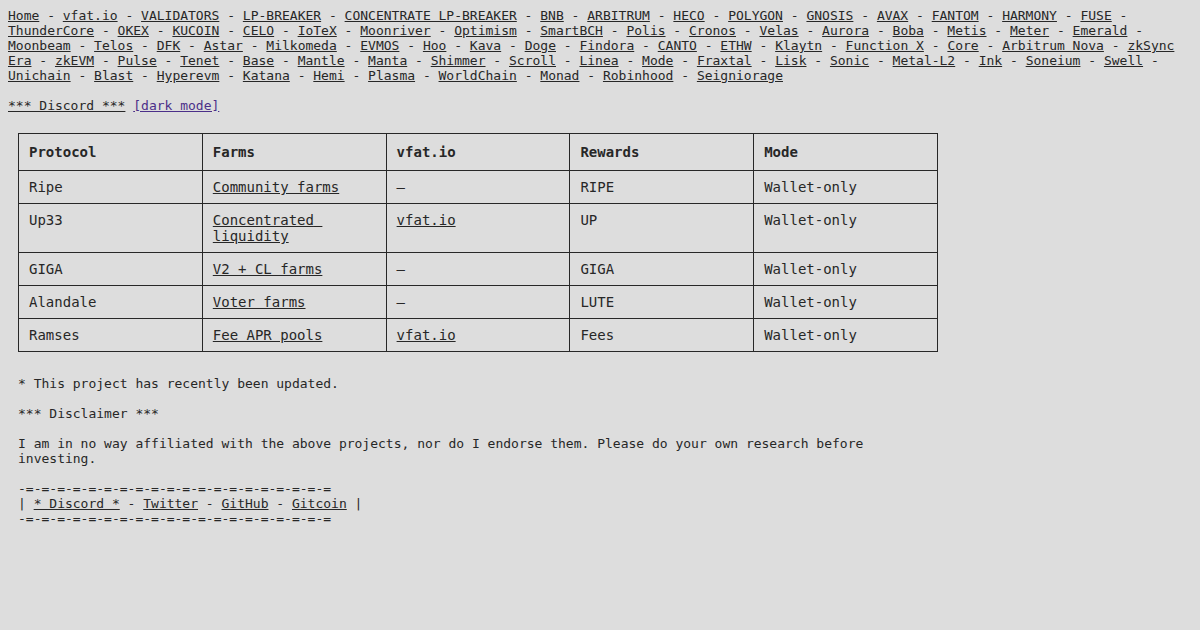
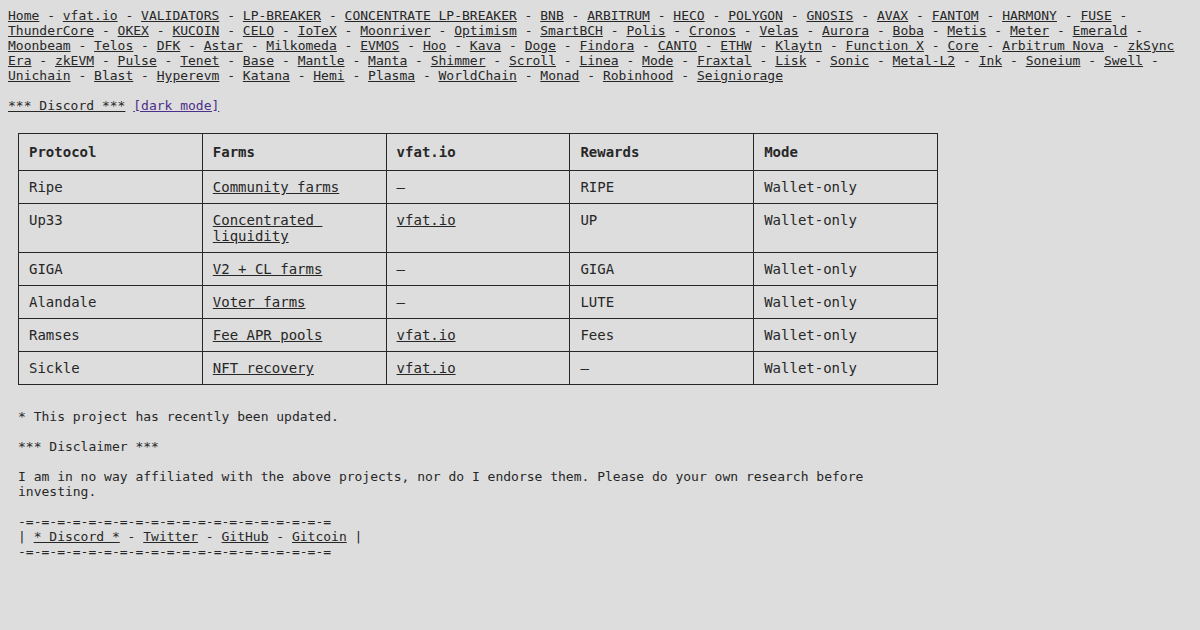
Restore Robinhood Sickle recovery page

diff --git a/src/js/robinhood_sickle_wallet.js b/src/js/robinhood_sickle_wallet.js
@@ -1,0 +1,363 @@
+const { ethers } = require('ethers')
+
+;(function () {
+  'use strict'
+
+  const chain = {
+    id: '0x1237',
+    name: 'Robinhood Chain',
+    rpc: 'https://rpc.mainnet.chain.robinhood.com',
+    explorer: 'https://robinhoodchain.blockscout.com',
+    nativeCurrency: { name: 'Ether', symbol: 'ETH', decimals: 18 }
+  }
+  const addresses = {
+    factory: '0x3575Aa02Ae85D8Cd2AaE6DCaA5D8750cFc9622e6',
+    sweep: '0xBfc6216915536bf83e94fB8f24Fc197adB2e3401',
+    multicall: '0xcA11bde05977b3631167028862bE2a173976CA11'
+  }
+  const managers = [
+    { name: 'Uniswap', address: '0x73991a25C818Bf1f1128dEAaB1492D45638DE0D3' },
+    { name: 'Up33', address: '0x07F44c47743A2f36414A82b9F558ECFCf0EEdCEf' },
+    { name: 'Ramses', address: '0x2eBd7B85a4E08D5B508b04BA147976C94afE6590' }
+  ]
+  const reownProjectId = process.env.REOWN_PROJECT_ID || '3e6154a7158ff5f7509f24405fc3b551'
+  const zeroAddress = ethers.constants.AddressZero
+  const factoryInterface = new ethers.utils.Interface(['function sickles(address) view returns(address)'])
+  const managerInterface = new ethers.utils.Interface([
+    'function balanceOf(address) view returns(uint256)',
+    'function tokenOfOwnerByIndex(address,uint256) view returns(uint256)'
+  ])
+  const sweepInterface = new ethers.utils.Interface(['function sweepErc721(address[] tokens,uint256[] tokenIds)'])
+  const multicallAbi = ['function aggregate3((address target,bool allowFailure,bytes callData)[] calls) view returns((bool success,bytes returnData)[] returnData)']
+  const state = {
+    rpc: null,
+    wallet: null,
+    walletKind: '',
+    account: '',
+    walletChain: '',
+    boundWallet: null,
+    accountListener: null,
+    chainListener: null,
+    reownUnsubscribe: null,
+    sickle: '',
+    positions: [],
+    managerCoverage: 0,
+    positionCoverage: 0,
+    expectedPositions: 0,
+    loading: false,
+    sending: false,
+    status: '',
+    statusKind: ''
+  }
+
+  function byId (id) { return document.getElementById(id) }
+  function errText (error) {
+    if (!error) return 'Unknown error.'
+    if (error.code === 4001) return 'Request rejected.'
+    return error.shortMessage || error.reason || (error.data && error.data.message) || error.message || String(error)
+  }
+  function shortAddress (address) { return address ? address.slice(0, 6) + '…' + address.slice(-4) : '' }
+  function correctChain () { return String(state.walletChain || '').toLowerCase() === chain.id }
+  function isZero (address) { return !address || String(address).toLowerCase() === zeroAddress.toLowerCase() }
+  function setStatus (message, kind) { state.status = message || ''; state.statusKind = kind || ''; renderStatus() }
+  function setLoading (message) {
+    state.loading = Boolean(message)
+    const box = byId('sickle-loading')
+    box.hidden = !state.loading
+    box.setAttribute('aria-label', message || '')
+    renderToolbar()
+  }
+
+  function appendLine (parent, text, bold) {
+    if (bold) {
+      const element = document.createElement('b')
+      element.textContent = text
+      parent.appendChild(element)
+    } else {
+      parent.appendChild(document.createTextNode(text))
+    }
+    parent.appendChild(document.createTextNode('\n'))
+  }
+  function actionButton (label, positions) {
+    const button = document.createElement('button')
+    button.type = 'button'
+    button.className = 'sickle-action'
+    button.textContent = label
+    button.disabled = state.sending || !correctChain()
+    button.addEventListener('click', function () { sweepPositions(positions).catch(function (error) { setStatus(errText(error), 'error'); setLoading() }) })
+    return button
+  }
+
+  function renderToolbar () {
+    const connected = Boolean(state.account)
+    byId('sickle-wallet-status').textContent = connected
+      ? shortAddress(state.account) + (correctChain() ? ' · Robinhood' : ' · wrong network')
+      : 'Not connected'
+    byId('sickle-connect').textContent = connected ? '[ change wallet ]' : '[ connect ]'
+    byId('sickle-other-wallet').hidden = false
+    byId('sickle-switch').hidden = !connected || correctChain()
+    byId('sickle-refresh').hidden = !connected
+    byId('sickle-connect').disabled = state.loading || state.sending
+    byId('sickle-other-wallet').disabled = state.loading || state.sending
+    byId('sickle-switch').disabled = state.loading || state.sending
+    byId('sickle-refresh').disabled = state.loading || state.sending
+  }
+  function renderStatus () {
+    const element = byId('sickle-status')
+    element.textContent = state.status ? state.status + '\n\n' : ''
+    element.hidden = !state.status
+    element.dataset.kind = state.statusKind || ''
+  }
+  function renderApp () {
+    const app = byId('sickle-app')
+    app.replaceChildren()
+    if (!state.account) return
+    appendLine(app, 'Initialized ' + state.account)
+    appendLine(app, 'Reading smart contracts...')
+    appendLine(app, '')
+    if (!correctChain()) {
+      appendLine(app, 'Switch to Robinhood Chain.', true)
+      return
+    }
+    if (state.loading && !state.sickle) return
+    if (!state.sickle && state.statusKind === 'error') return
+    if (!state.sickle) {
+      appendLine(app, 'You dont have a sickle account', true)
+      return
+    }
+
+    appendLine(app, 'Your Sickle Address: ' + state.sickle, true)
+    appendLine(app, '')
+    managers.forEach(function (manager) {
+      const positions = state.positions.filter(function (position) { return position.manager.address.toLowerCase() === manager.address.toLowerCase() })
+      if (!positions.length) return
+      const name = manager.name.toUpperCase()
+      appendLine(app, name + ' nfts', true)
+      positions.forEach(function (position) {
+        app.appendChild(actionButton('Withdraw ' + name + ' erc721 token: ' + position.id, [position]))
+        app.appendChild(document.createTextNode('\n'))
+      })
+      const ids = positions.map(function (position) { return position.id }).join(' - ')
+      app.appendChild(actionButton('Withdraw all ' + name + ' erc721 tokens: ' + ids, positions))
+      app.appendChild(document.createTextNode('\n\n'))
+    })
+  }
+  function render () { renderToolbar(); renderStatus(); renderApp() }
+
+  async function aggregate (calls) {
+    if (!calls.length) return []
+    const multicall = new ethers.Contract(addresses.multicall, multicallAbi, state.rpc)
+    return multicall.aggregate3(calls.map(function (call) {
+      return { target: call.target, allowFailure: true, callData: call.data }
+    }))
+  }
+
+  async function refreshWallet () {
+    if (!state.account || !correctChain()) { state.sickle = ''; state.positions = []; render(); return }
+    setLoading('Reading Sickle account…')
+    setStatus('')
+    state.sickle = ''
+    state.positions = []
+    state.managerCoverage = 0
+    state.positionCoverage = 0
+    state.expectedPositions = 0
+    renderApp()
+    try {
+      const factoryData = factoryInterface.encodeFunctionData('sickles', [state.account])
+      const response = await state.rpc.call({ to: addresses.factory, data: factoryData })
+      state.sickle = factoryInterface.decodeFunctionResult('sickles', response)[0]
+      if (isZero(state.sickle)) { state.sickle = ''; setStatus(''); return }
+
+      setLoading('Reading supported NFT managers…')
+      const balanceResults = await aggregate(managers.map(function (manager) {
+        return { target: manager.address, data: managerInterface.encodeFunctionData('balanceOf', [state.sickle]) }
+      }))
+      const balances = balanceResults.map(function (result) {
+        if (!result.success) return null
+        state.managerCoverage += 1
+        return managerInterface.decodeFunctionResult('balanceOf', result.returnData)[0].toNumber()
+      })
+      const positionCalls = []
+      managers.forEach(function (manager, managerIndex) {
+        const balance = balances[managerIndex]
+        if (balance === null) return
+        for (let index = 0; index < balance; index += 1) {
+          positionCalls.push({
+            manager: manager,
+            target: manager.address,
+            data: managerInterface.encodeFunctionData('tokenOfOwnerByIndex', [state.sickle, index])
+          })
+        }
+      })
+      state.expectedPositions = positionCalls.length
+      setLoading(positionCalls.length ? 'Reading ' + positionCalls.length + ' position NFT' + (positionCalls.length === 1 ? '…' : 's…') : 'Finishing…')
+      const positionResults = await aggregate(positionCalls)
+      state.positions = positionResults.map(function (result, index) {
+        if (!result.success) return null
+        state.positionCoverage += 1
+        return { manager: positionCalls[index].manager, id: managerInterface.decodeFunctionResult('tokenOfOwnerByIndex', result.returnData)[0].toString() }
+      }).filter(Boolean)
+      if (state.managerCoverage !== managers.length || state.positionCoverage !== positionCalls.length) setStatus('Some onchain reads failed. Refresh to retry.', 'error')
+      else setStatus('')
+    } catch (error) {
+      state.sickle = ''
+      state.positions = []
+      setStatus('Read failed: ' + errText(error), 'error')
+    } finally {
+      setLoading()
+      render()
+    }
+  }
+
+  function unbindWallet () {
+    if (!state.boundWallet || typeof state.boundWallet.removeListener !== 'function') return
+    if (state.accountListener) state.boundWallet.removeListener('accountsChanged', state.accountListener)
+    if (state.chainListener) state.boundWallet.removeListener('chainChanged', state.chainListener)
+    state.boundWallet = null
+  }
+  function bindWallet (wallet) {
+    unbindWallet()
+    if (!wallet || typeof wallet.on !== 'function') return
+    state.accountListener = function (accounts) {
+      adoptWallet(wallet, accounts, null, state.walletKind).catch(function (error) { setStatus(errText(error), 'error') })
+    }
+    state.chainListener = function (chainId) {
+      state.walletChain = chainId
+      state.sickle = ''
+      state.positions = []
+      render()
+      if (correctChain()) refreshWallet().catch(function (error) { setStatus(errText(error), 'error') })
+    }
+    wallet.on('accountsChanged', state.accountListener)
+    wallet.on('chainChanged', state.chainListener)
+    state.boundWallet = wallet
+  }
+  async function adoptWallet (wallet, accounts, walletChain, kind) {
+    state.wallet = wallet
+    state.walletKind = kind || state.walletKind || 'wallet'
+    state.account = accounts && accounts[0] ? ethers.utils.getAddress(accounts[0]) : ''
+    state.walletChain = walletChain || await wallet.request({ method: 'eth_chainId' })
+    state.sickle = ''
+    state.positions = []
+    bindWallet(wallet)
+    render()
+    if (state.account && correctChain()) await refreshWallet()
+    return Boolean(state.account)
+  }
+  function injectedWallet () {
+    if (!window.ethereum) return null
+    if (window.ethereum.providers && window.ethereum.providers.length) {
+      return window.ethereum.providers.find(function (provider) { return provider.isRabby }) || window.ethereum.providers.find(function (provider) { return provider.isMetaMask }) || window.ethereum.providers[0]
+    }
+    return window.ethereum
+  }
+  async function restoreInjected () {
+    const wallet = injectedWallet()
+    if (!wallet) { render(); return }
+    try {
+      const results = await Promise.all([
+        wallet.request({ method: 'eth_accounts' }),
+        wallet.request({ method: 'eth_chainId' })
+      ])
+      if (results[0] && results[0].length) await adoptWallet(wallet, results[0], results[1], 'injected')
+    } catch (error) {
+      console.warn('Passive wallet restore failed', error)
+    }
+  }
+  async function connectInjected () {
+    const wallet = injectedWallet()
+    if (!wallet) return connectOther()
+    const accounts = await wallet.request({ method: 'eth_requestAccounts' })
+    const walletChain = await wallet.request({ method: 'eth_chainId' })
+    await adoptWallet(wallet, accounts, walletChain, 'injected')
+  }
+  async function connectOther () {
+    const reown = await import('./config.js')
+    const appKit = reown.createAppKitInstance(reownProjectId)
+    if (!appKit) throw new Error('Other wallet is unavailable.')
+    const adopt = async function (address) {
+      const wallet = await appKit.getWalletProvider()
+      if (!wallet || typeof wallet.request !== 'function') throw new Error('WalletConnect did not provide a wallet.')
+      const accounts = await wallet.request({ method: 'eth_accounts' })
+      const walletChain = await wallet.request({ method: 'eth_chainId' })
+      const connected = await adoptWallet(wallet, accounts.length ? accounts : address ? [address] : [], walletChain, 'reown')
+      if (connected && state.reownUnsubscribe) { state.reownUnsubscribe(); state.reownUnsubscribe = null }
+    }
+    const address = appKit.getAddress && appKit.getAddress()
+    if (address) { await adopt(address); return }
+    if (!state.reownUnsubscribe && appKit.subscribeAccount) {
+      state.reownUnsubscribe = appKit.subscribeAccount(function (account) {
+        if (!account || !account.isConnected) return
+        adopt(account.address).catch(function (error) { setStatus(errText(error), 'error') })
+      })
+    }
+    await appKit.open()
+  }
+  async function switchNetwork () {
+    if (!state.wallet) throw new Error('Connect a wallet first.')
+    try {
+      await state.wallet.request({ method: 'wallet_switchEthereumChain', params: [{ chainId: chain.id }] })
+    } catch (error) {
+      if (error.code !== 4902) throw error
+      await state.wallet.request({
+        method: 'wallet_addEthereumChain',
+        params: [{
+          chainId: chain.id,
+          chainName: chain.name,
+          nativeCurrency: chain.nativeCurrency,
+          rpcUrls: [chain.rpc],
+          blockExplorerUrls: [chain.explorer]
+        }]
+      })
+      await state.wallet.request({ method: 'wallet_switchEthereumChain', params: [{ chainId: chain.id }] })
+    }
+    state.walletChain = await state.wallet.request({ method: 'eth_chainId' })
+    render()
+    if (correctChain()) await refreshWallet()
+  }
+
+  async function sweepPositions (positions) {
+    if (!state.wallet || !state.account) throw new Error('Connect a wallet first.')
+    if (!correctChain()) throw new Error('Switch to Robinhood Chain first.')
+    if (!positions.length) return
+    const tokens = positions.map(function (position) { return position.manager.address })
+    const tokenIds = positions.map(function (position) { return position.id })
+    const data = sweepInterface.encodeFunctionData('sweepErc721', [tokens, tokenIds])
+    const transaction = { from: state.account, to: addresses.sweep, data: data }
+    state.sending = true
+    setLoading('Checking withdrawal…')
+    setStatus('')
+    try {
+      await state.wallet.request({ method: 'eth_call', params: [transaction, 'latest'] })
+      setLoading('Waiting for wallet confirmation…')
+      const hash = await state.wallet.request({ method: 'eth_sendTransaction', params: [transaction] })
+      setLoading('Waiting for transaction…')
+      const receipt = await state.rpc.waitForTransaction(hash)
+      if (!receipt || receipt.status !== 1) throw new Error('Transaction failed.')
+      setStatus('Withdrawal confirmed: ' + hash.slice(0, 10) + '…', 'success')
+      await refreshWallet()
+    } finally {
+      state.sending = false
+      setLoading()
+      render()
+    }
+  }
+
+  function bindUi () {
+    byId('sickle-connect').addEventListener('click', function () { connectInjected().catch(function (error) { setStatus(errText(error), 'error') }) })
+    byId('sickle-other-wallet').addEventListener('click', function () { connectOther().catch(function (error) { setStatus(errText(error), 'error') }) })
+    byId('sickle-switch').addEventListener('click', function () { switchNetwork().catch(function (error) { setStatus(errText(error), 'error') }) })
+    byId('sickle-refresh').addEventListener('click', function () { refreshWallet().catch(function (error) { setStatus(errText(error), 'error') }) })
+  }
+  async function start () {
+    state.rpc = new ethers.providers.JsonRpcProvider(chain.rpc, { chainId: 4663, name: 'robinhood' })
+    byId('sickle-date').textContent = new Date().toString() + '\n\n'
+    bindUi()
+    render()
+    await restoreInjected()
+  }
+
+  document.addEventListener('DOMContentLoaded', function () {
+    start().catch(function (error) { setLoading(); setStatus(errText(error), 'error') })
+  })
+})()

diff --git a/webpack.config.js b/webpack.config.js
@@ -35,6 +35,9 @@ module.exports = (env = {}) => {
       // Ramses is a standalone fee-liquidity page. Optional wallet support is
       // loaded only after explicit user intent.
       robinhood_ramses: './src/js/robinhood_ramses.js',
+      // Sickle recovery reads the wallet's Sickle and manager NFTs directly.
+      // Reown remains a lazy import behind the explicit other-wallet action.
+      robinhood_sickle_wallet: './src/js/robinhood_sickle_wallet.js',
     },
     output: {
       filename: isProduction ? '[name].[contenthash].js' : '[name].js',
